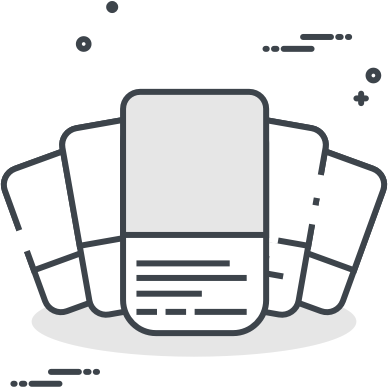
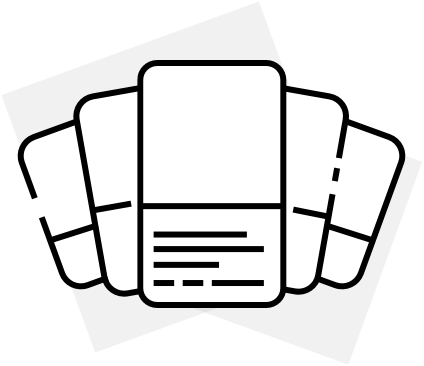
MOB-667: Images replacing of invalid url, no current learning, no downloads, no notifications

diff --git a/src/totara/features/notifications/Notifications.tsx b/src/totara/features/notifications/Notifications.tsx
@@ -16,16 +16,7 @@
  */
 
 import React, { useEffect, useState } from "react";
-import {
-  View,
-  Text,
-  StyleSheet,
-  Image,
-  FlatList,
-  ImageSourcePropType,
-  ScrollView,
-  RefreshControl
-} from "react-native";
+import { View, Text, StyleSheet, Image, FlatList, ImageSourcePropType, ScrollView, RefreshControl } from "react-native";
 import { useMutation, useQuery } from "@apollo/react-hooks";
 import { NetworkStatus as NS } from "apollo-client/core/networkStatus";
 import { NavigationStackProp } from "react-navigation-stack";
@@ -39,11 +30,7 @@ import { NotificationMessage } from "@totara/types";
 import NotificationItem from "@totara/features/notifications/NotificationItem";
 import { TotaraTheme } from "@totara/theme/Theme";
 import { Loading, LoadingError } from "@totara/components";
-import {
-  notificationQueryMarkRead,
-  notificationsQuery,
-  parser
-} from "@totara/features/notifications/api";
+import { notificationQueryMarkRead, notificationsQuery, parser } from "@totara/features/notifications/api";
 import { NavigationActions } from "react-navigation";
 
 type NotificationsProps = {
@@ -51,12 +38,9 @@ type NotificationsProps = {
 };
 
 const Notifications = ({ navigation }: NotificationsProps) => {
-  const { error, loading, data, refetch, networkStatus } = useQuery(
-    notificationsQuery
-  );
+  const { error, loading, data, refetch, networkStatus } = useQuery(notificationsQuery);
   const [mutationMarkAsRead] = useMutation(notificationQueryMarkRead);
-  const notificationList =
-    !loading && !error ? parser(data) : ([] as NotificationMessage[]);
+  const notificationList = !loading && !error ? parser(data) : ([] as NotificationMessage[]);
   const [selectedList, setSelectedList] = useState<string[]>([]);
   const [selectable, setSelectable] = useState(false);
   const headerTitle =
@@ -70,14 +54,8 @@ const Notifications = ({ navigation }: NotificationsProps) => {
   }, [selectable]);
 
   useEffect(() => {
-    const onCancelTapListener = navigation.addListener(
-      "onCancelTap",
-      onCancelTap
-    );
-    const onMarkAsRead = navigation.addListener(
-      "onMarkAsRead",
-      markAsReadAllSelected
-    );
+    const onCancelTapListener = navigation.addListener("onCancelTap", onCancelTap);
+    const onMarkAsRead = navigation.addListener("onMarkAsRead", markAsReadAllSelected);
     return () => {
       onCancelTapListener.remove();
       onMarkAsRead.remove();
@@ -166,27 +144,18 @@ const Notifications = ({ navigation }: NotificationsProps) => {
       <NetworkStatus />
       <View style={{ flex: 1 }}>
         {loading && <Loading testID={"test_loading"} />}
-        {error && (
-          <LoadingError onRefreshTap={refetch} testID={"test_loadingError"} />
-        )}
+        {error && <LoadingError onRefreshTap={refetch} testID={"test_loadingError"} />}
         {!loading && !error && notificationList.length == 0 && (
           <ScrollView
             contentContainerStyle={{
               flexGrow: 1,
               justifyContent: "center"
             }}
-            refreshControl={
-              <RefreshControl
-                refreshing={networkStatus === NS.refetch}
-                onRefresh={refetch}
-              />
-            }
+            refreshControl={<RefreshControl refreshing={networkStatus === NS.refetch} onRefresh={refetch} />}
             testID={"test_notificationsEmptyContainer"}>
             <View style={styles.noContent}>
-              <Image source={Images.notificationBell as ImageSourcePropType} />
-              <Text style={[TotaraTheme.textHeadline, { fontWeight: "bold" }]}>
-                {translate("notifications.empty")}
-              </Text>
+              <Image source={Images.noNotifications as ImageSourcePropType} />
+              <Text style={[TotaraTheme.textHeadline, { fontWeight: "bold" }]}>{translate("notifications.empty")}</Text>
             </View>
           </ScrollView>
         )}
@@ -196,9 +165,7 @@ const Notifications = ({ navigation }: NotificationsProps) => {
             refreshing={networkStatus === NS.refetch}
             onRefresh={refetch}
             contentContainerStyle={listViewStyles.contentContainerStyle}
-            ItemSeparatorComponent={() => (
-              <View style={listViewStyles.itemSeparator} />
-            )}
+            ItemSeparatorComponent={() => <View style={listViewStyles.itemSeparator} />}
             data={notificationList}
             keyExtractor={(notificationItem) => notificationItem.id}
             renderItem={({ item }) => (

diff --git a/src/resources/images/index.ts b/src/resources/images/index.ts
@@ -15,9 +15,8 @@
  *
  */
 
-// TODO: separate icons from images
 import autoCompleteTick from "./auto_complete_tick/auto_complete_tick.png";
-import notificationBell from "./notifications/notificationsBell.png";
+import noNotifications from "./notifications/no_notifications.png";
 import generalError from "./general_error/general_error.png";
 import completeAction from "./complete_action/complete_action.png";
 import urlNotValid from "./url_not_valid/url_not_valid.png";
@@ -35,7 +34,7 @@ import attemptComplete from "./attempt_complete/attempt_complete.png";
 
 const Images = {
   autoCompleteTick,
-  notificationBell,
+  noNotifications,
   generalError,
   completeAction,
   urlNotValid,
